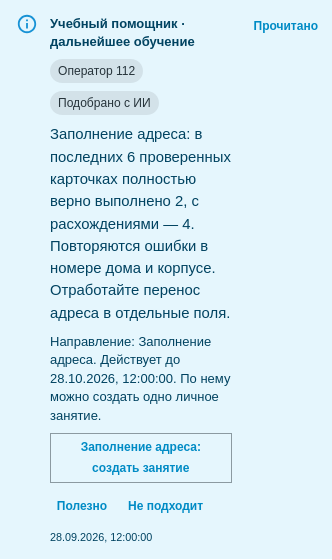
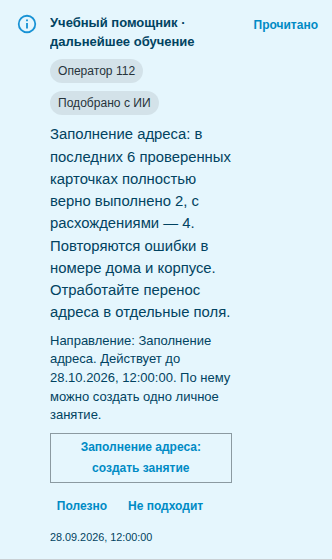
fix: refresh lesson lists after referral redemption

diff --git a/112-frontend/src/features/teaching-messages/model/useReferralLesson.ts b/112-frontend/src/features/teaching-messages/model/useReferralLesson.ts
@@ -1,6 +1,6 @@
 import { useMutation, useQueryClient } from "@tanstack/react-query";
 import { useNavigate } from "react-router-dom";
-import { messageApi } from "@/entities/training";
+import { messageApi, trainingKeys } from "@/entities/training";
 import { getStudentTrainingWorkspacePath } from "@/shared/config/routes";
 
 export function useReferralLesson() {
@@ -10,6 +10,7 @@ export function useReferralLesson() {
     mutationFn: messageApi.createReferralLesson,
     onSuccess: ({ lesson_id }) => {
       void client.invalidateQueries({ queryKey: ["messages"] });
+      void client.invalidateQueries({ queryKey: trainingKeys.lessons });
       void client.invalidateQueries({ queryKey: ["student-overview"] });
       navigate(getStudentTrainingWorkspacePath(lesson_id));
     },
